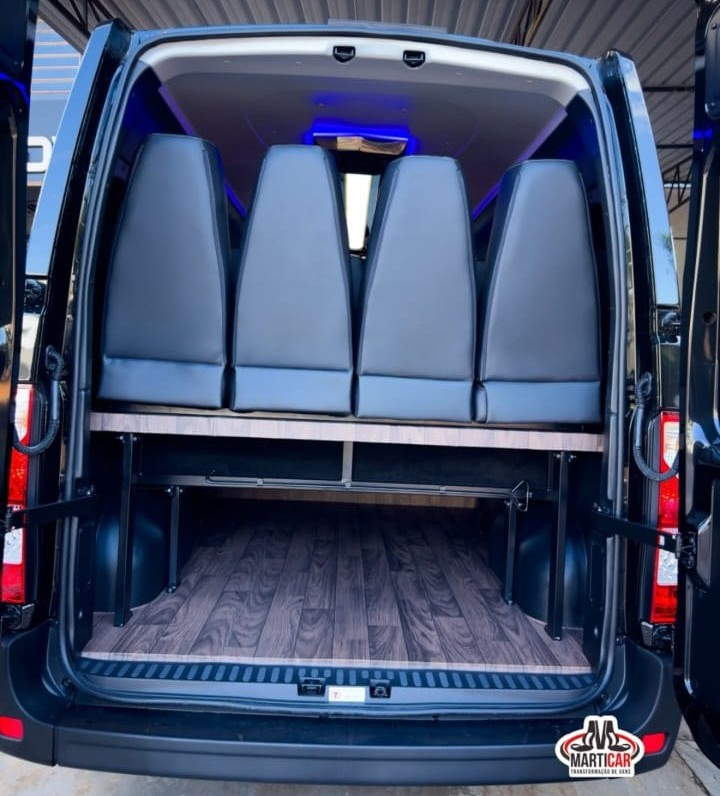
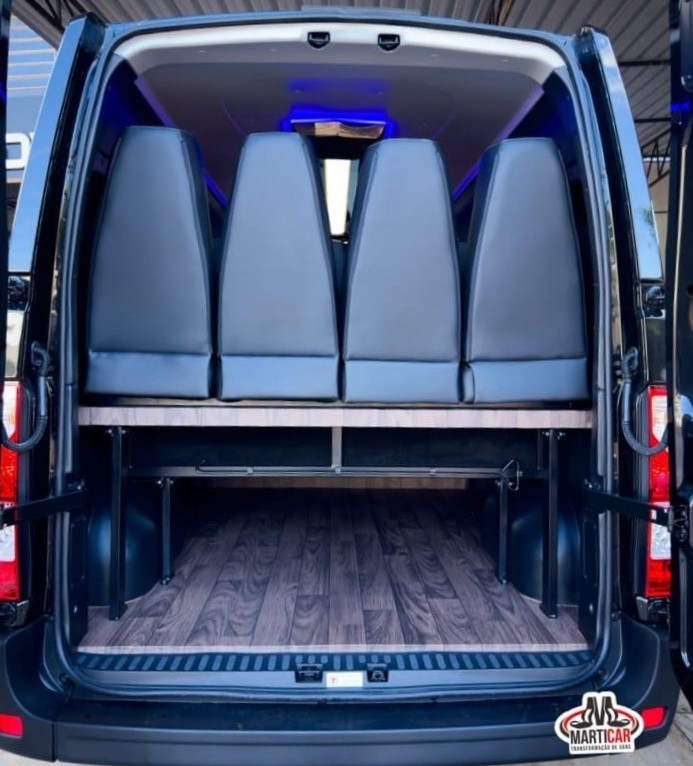
Atualiza foto do espaco traseiro na galeria

diff --git a/index.html b/index.html
@@ -177,7 +177,7 @@
               </li>
               <li class="gallery__slide">
                 <figure class="gallery__item">
-                  <img src="assets/images/espaco-traseiro.jpg" alt="Espaço traseiro da van com bagageiro" width="720" height="796" loading="lazy" decoding="async" />
+                  <img src="assets/images/espaco-traseiro.jpg" alt="Espaço traseiro da van com bagageiro" width="693" height="766" loading="lazy" decoding="async" />
                 </figure>
               </li>
             </ul>
